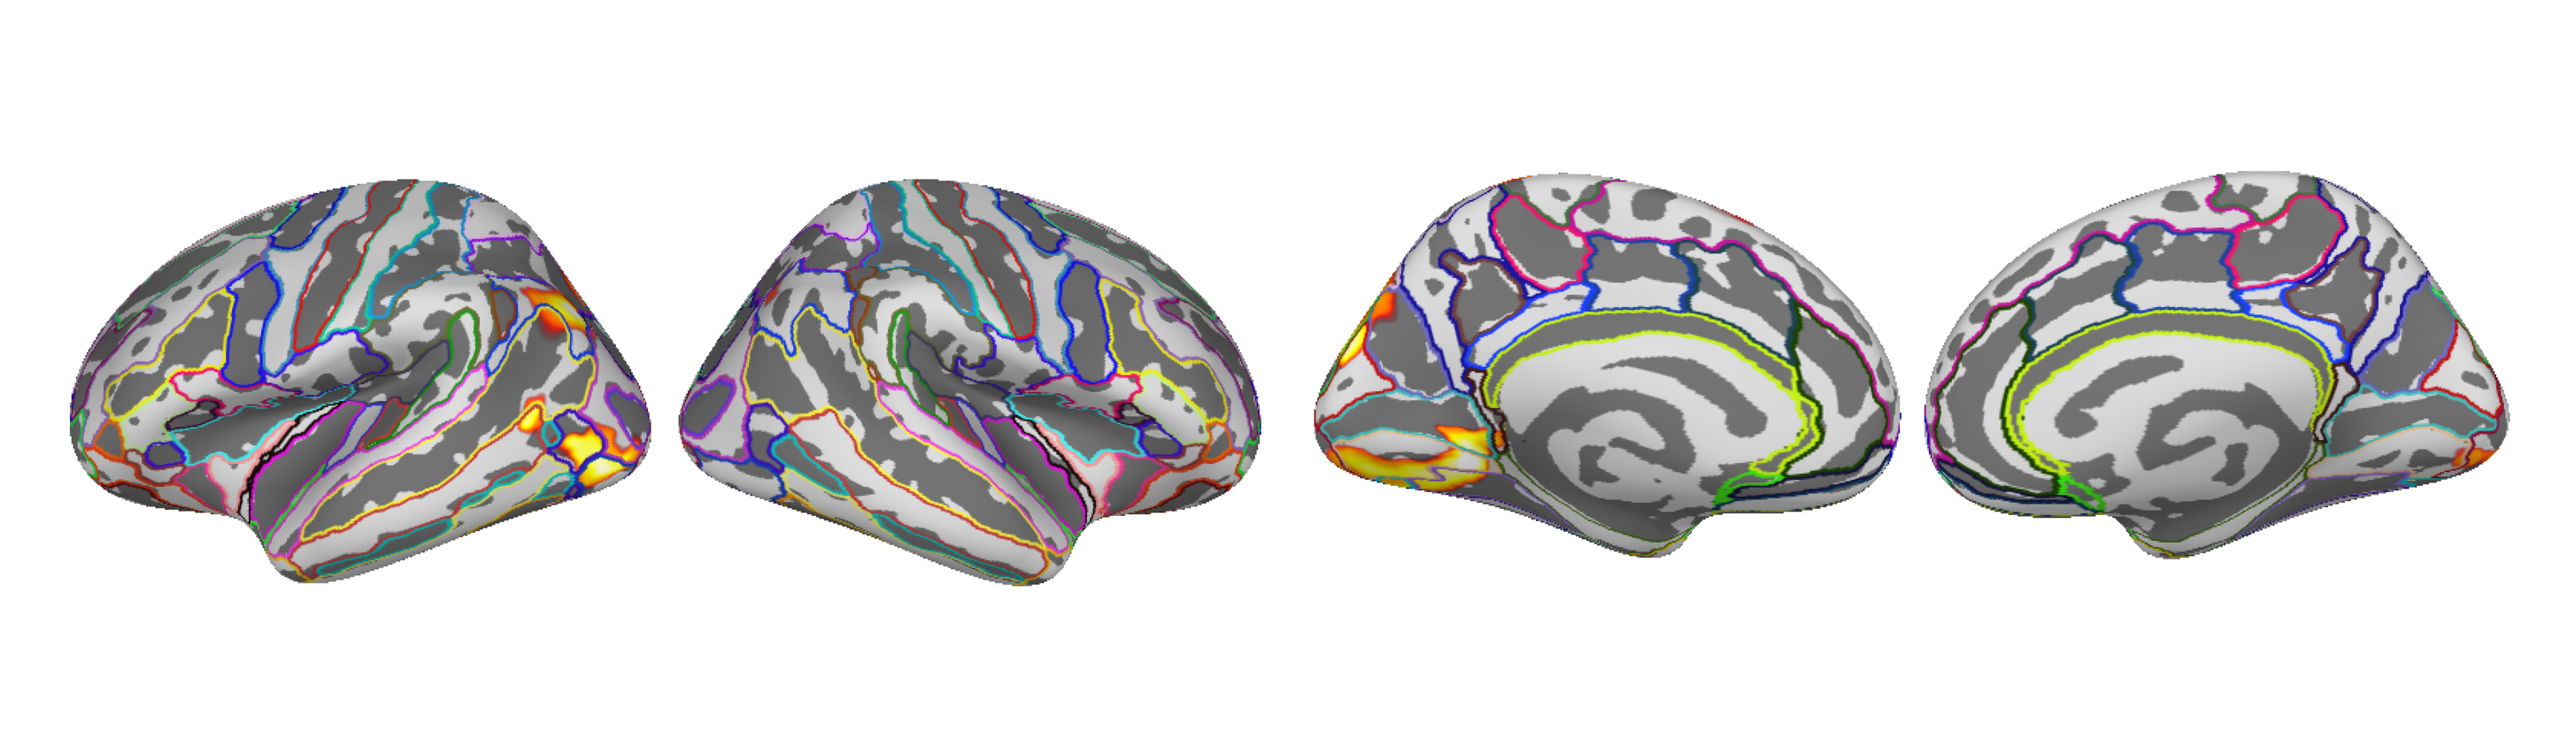
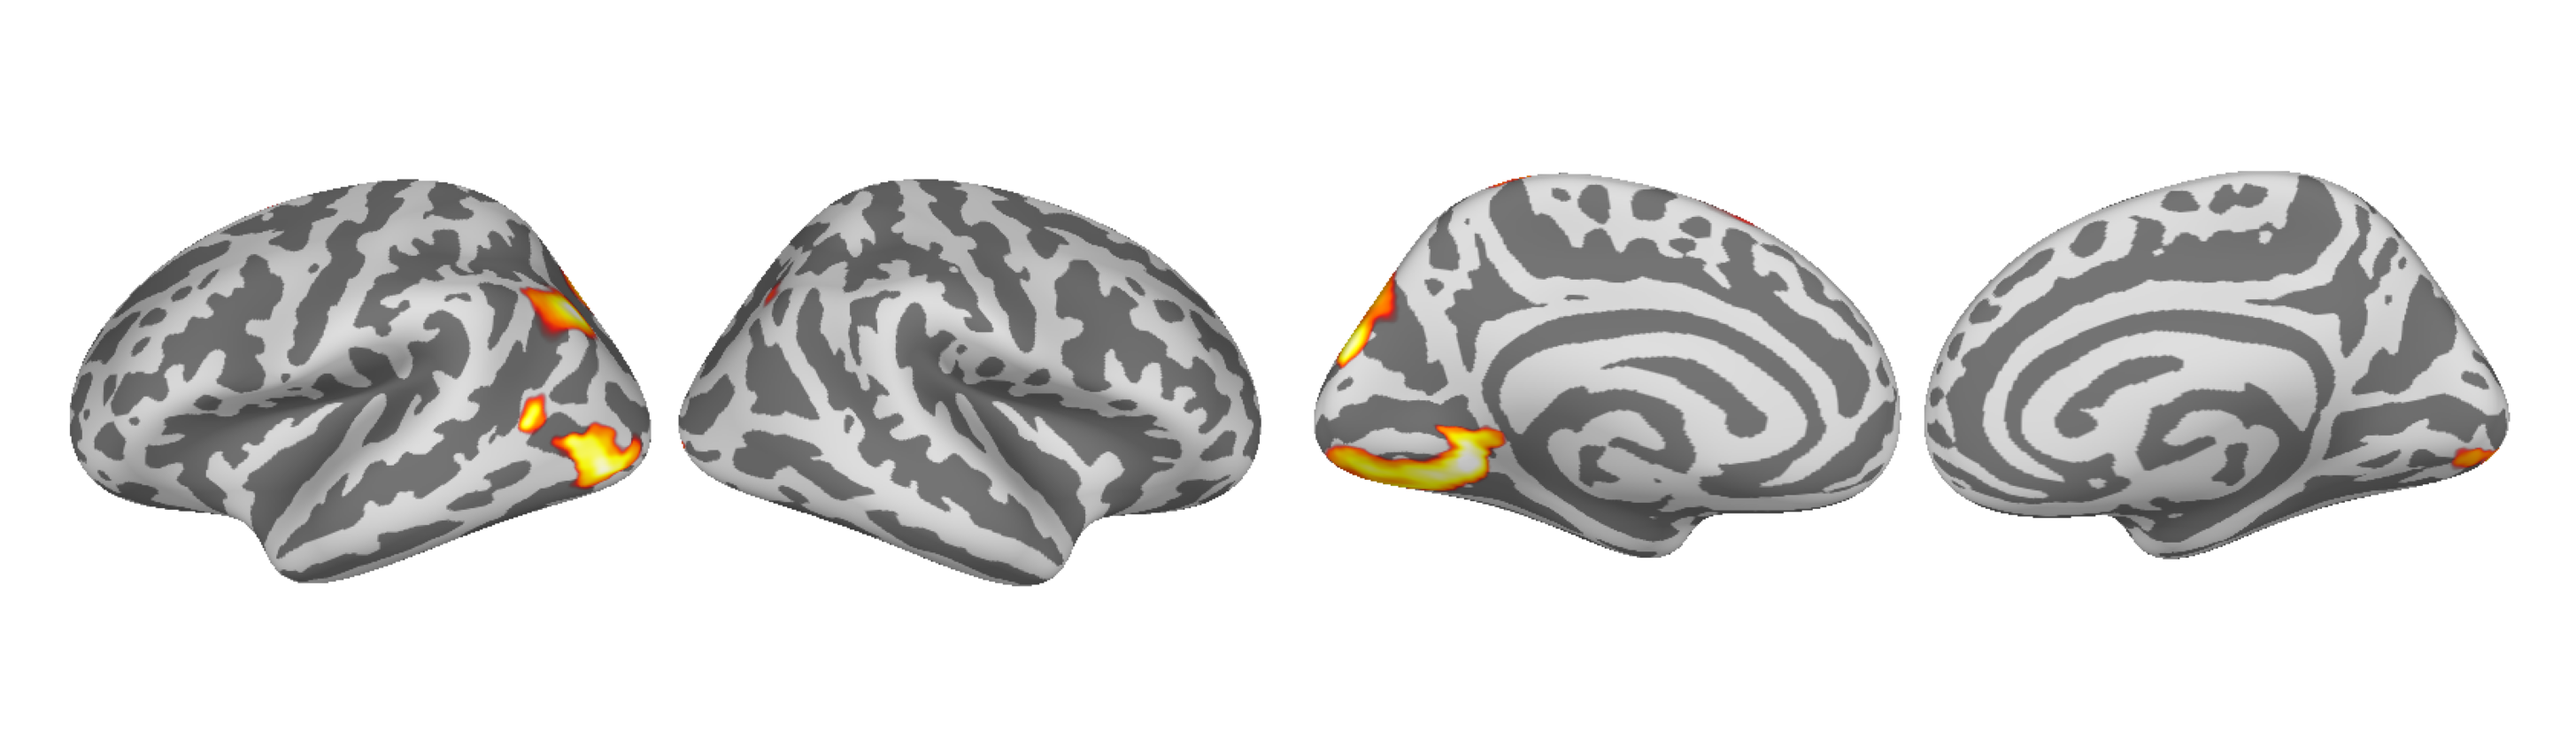
rearranged HFA script

Changed region(s): [[0.0309, 0.2462, 0.9897, 0.8], [0.8351, 0.7077, 0.866, 0.7385], [0.6186, 0.7077, 0.6495, 0.7385]]

diff --git a/HFA_source_analysis.py b/HFA_source_analysis.py
@@ -61,14 +61,14 @@ for sub_ID in range(31):
     stc_avg = stc.copy().crop(0.1, 0.3).mean()  # average accross 0.1~0.3s
     mean_hfa[:, sub_ID] = stc_avg.data[:, 0]  # matrix of results
 
-
-# In[2] group result
 stc.data = mean_hfa # average result
 stc.save('/Users/freya/Documents/GitHub/python_MNE_attention_project/Averaged_HFA')
 
+
+# In[2] group result
+stc = mne.read_source_estimate('/Users/freya/Documents/GitHub/python_MNE_attention_project/Averaged_HFA')
 stc_avg = stc.copy()
 # stc_avg.data = stc.copy().data.mean(axis = 1)[:,None]
-
 
 # normarlize
 norm_data = np.zeros((8196,len(name_list)))
@@ -94,7 +94,7 @@ brain = stc_avg.plot(
     show_traces=False,
     colorbar=False,
 )
-brain.add_annotation("aparc.a2009s")
+# brain.add_annotation("aparc.a2009s")
 screenshot_lat = brain.screenshot()
 brain.close()
 
@@ -110,7 +110,7 @@ brain = stc_avg.plot(
     show_traces=False,
     colorbar=False,
 )
-brain.add_annotation("aparc.a2009s")
+# brain.add_annotation("aparc.a2009s")
 screenshot_med = brain.screenshot()
 brain.close()
 
